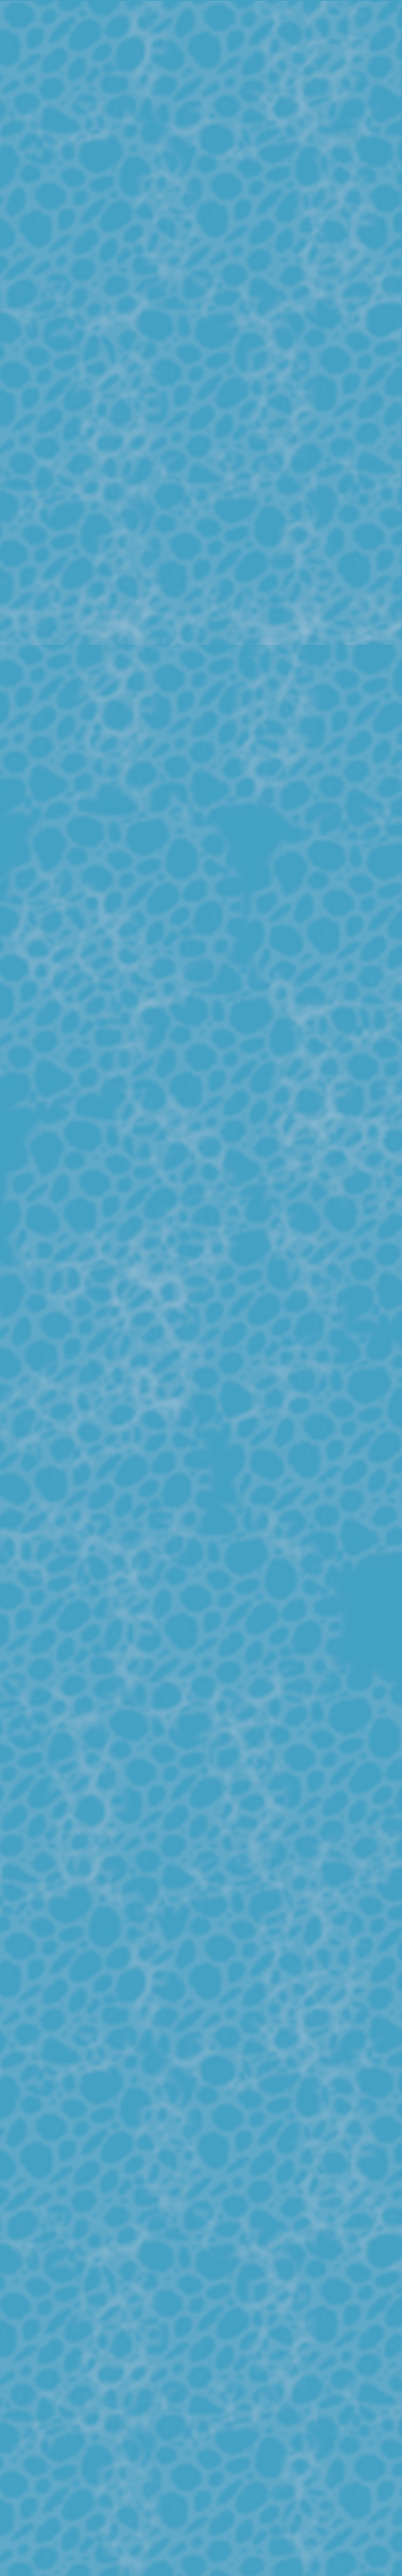
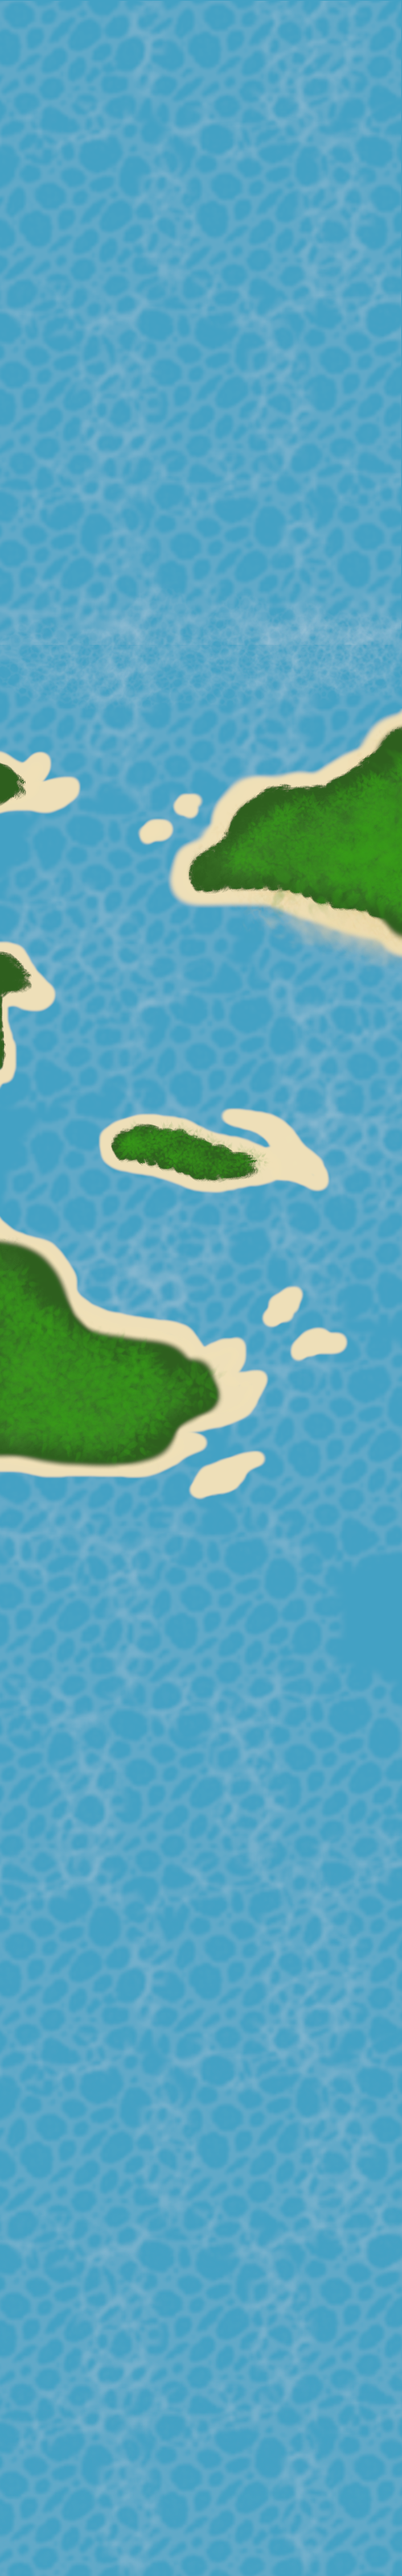
Finished Background

diff --git a/src/worldwark/WorldWarK.java b/src/worldwark/WorldWarK.java
@@ -302,7 +302,7 @@ public class WorldWarK extends JPanel implements Runnable {
 	    if (backgroundYScroll == -backgroundImage.getHeight() + 800) {
 		backgroundYScroll = 0;
 	    } else {
-		backgroundYScroll -= 5;
+		backgroundYScroll -= 2;
 	    }
 
 	    // Paint score and high score
